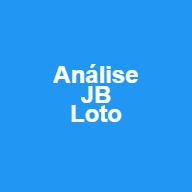
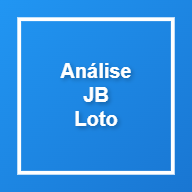
iconprof

Changed region(s): [[0.0625, 0.0625, 1.0, 1.0], [0.2812, 0.3125, 0.7188, 0.6875]]

diff --git a/lotomenu2/analisededados.html b/lotomenu2/analisededados.html
@@ -7,57 +7,56 @@
   <link rel="manifest" href="manifest.json">
   <meta name="theme-color" content="#2196f3">
   <!-- PWA Meta Tags -->
-<meta name="apple-mobile-web-app-capable" content="yes">
-<meta name="apple-mobile-web-app-status-bar-style" content="default">
-<meta name="apple-mobile-web-app-title" content="JB Loto">
-<meta name="mobile-web-app-capable" content="yes">
-<meta name="msapplication-TileColor" content="#2196f3">
-<meta name="msapplication-TileImage" content="/icon-144x144.png">
-<meta name="msapplication-config" content="/browserconfig.xml">
-<meta name="application-name" content="JB Loto">
+  <meta name="apple-mobile-web-app-capable" content="yes">
+  <meta name="apple-mobile-web-app-status-bar-style" content="default">
+  <meta name="apple-mobile-web-app-title" content="JB Loto">
+  <meta name="mobile-web-app-capable" content="yes">
+  <meta name="msapplication-TileColor" content="#2196f3">
+  <meta name="msapplication-TileImage" content="/JavaScript/LotoMenu/icon-192.png">
+  <meta name="msapplication-config" content="/browserconfig.xml">
+  <meta name="application-name" content="JB Loto">
 
-<!-- Apple Touch Icons -->
-<!-- CORRIGIDO -->
-<link rel="apple-touch-icon" href="/JavaScript/LotoMenu/icon-192.png">
-<link rel="apple-touch-icon" sizes="152x152" href="/JavaScript/LotoMenu/icon-192.png">
-<link rel="apple-touch-icon" sizes="180x180" href="/JavaScript/LotoMenu/icon-192.png">
-<link rel="apple-touch-icon" sizes="167x167" href="/JavaScript/LotoMenu/icon-192.png">
+  <!-- Apple Touch Icons - CORRIGIDOS -->
+  <link rel="apple-touch-icon" href="/JavaScript/LotoMenu/icon-192.png">
+  <link rel="apple-touch-icon" sizes="152x152" href="/JavaScript/LotoMenu/icon-192.png">
+  <link rel="apple-touch-icon" sizes="180x180" href="/JavaScript/LotoMenu/icon-192.png">
+  <link rel="apple-touch-icon" sizes="167x167" href="/JavaScript/LotoMenu/icon-192.png">
 
-<!-- E também no manifest (já corrigido acima) -->
-
-<!-- Splash Screens (opcional) -->
-<link rel="apple-touch-startup-image" href="/splash-640x1136.png" media="(device-width: 320px) and (device-height: 568px) and (-webkit-device-pixel-ratio: 2) and (orientation: portrait)">
-<link rel="apple-touch-startup-image" href="/splash-750x1334.png" media="(device-width: 375px) and (device-height: 667px) and (-webkit-device-pixel-ratio: 2) and (orientation: portrait)">
-<link rel="apple-touch-startup-image" href="/splash-1242x2208.png" media="(device-width: 414px) and (device-height: 736px) and (-webkit-device-pixel-ratio: 3) and (orientation: portrait)">
+  <!-- Splash Screens (opcional) -->
+  <link rel="apple-touch-startup-image" href="/splash-640x1136.png" media="(device-width: 320px) and (device-height: 568px) and (-webkit-device-pixel-ratio: 2) and (orientation: portrait)">
+  <link rel="apple-touch-startup-image" href="/splash-750x1334.png" media="(device-width: 375px) and (device-height: 667px) and (-webkit-device-pixel-ratio: 2) and (orientation: portrait)">
+  <link rel="apple-touch-startup-image" href="/splash-1242x2208.png" media="(device-width: 414px) and (device-height: 736px) and (-webkit-device-pixel-ratio: 3) and (orientation: portrait)">
+  
   <style>
     /* (mantive seu CSS, pequenos ajustes visuais) */
     /* Estilos específicos para PWA */
-.pwa-mode body {
-  padding-top: env(safe-area-inset-top);
-  padding-bottom: env(safe-area-inset-bottom);
-  padding-left: env(safe-area-inset-left);
-  padding-right: env(safe-area-inset-right);
-}
+    .pwa-mode body {
+      padding-top: env(safe-area-inset-top);
+      padding-bottom: env(safe-area-inset-bottom);
+      padding-left: env(safe-area-inset-left);
+      padding-right: env(safe-area-inset-right);
+    }
 
-/* Melhorar visualização em mobile quando instalado */
-@media (display-mode: standalone) {
-  body {
-    user-select: none;
-    -webkit-user-select: none;
-  }
-  
-  .container {
-    max-width: 100%;
-    margin: 0 auto;
-  }
-}
+    /* Melhorar visualização em mobile quando instalado */
+    @media (display-mode: standalone) {
+      body {
+        user-select: none;
+        -webkit-user-select: none;
+      }
+      
+      .container {
+        max-width: 100%;
+        margin: 0 auto;
+      }
+    }
 
-/* Prevenir zoom em inputs em iOS */
-@media (max-width: 768px) {
-  input, select, textarea {
-    font-size: 16px !important;
-  }
-}
+    /* Prevenir zoom em inputs em iOS */
+    @media (max-width: 768px) {
+      input, select, textarea {
+        font-size: 16px !important;
+      }
+    }
+    
     body { font-family: Arial, sans-serif; margin: 16px; background:#fbfbfd; color:#111; }
     .container { max-width:1200px; margin:0 auto; }
     h1 { margin-bottom:8px; }
@@ -86,6 +85,30 @@
     #heatmap { width:100%; overflow:auto; }
     pre { background:#f7f7f8; padding:10px; border-radius:6px; overflow:auto; }
     input[type=number].small-num { width:80px; padding:6px; }
+    
+    /* Estilos para os botões de gerar ícones */
+    .icon-generator-btn {
+      position: fixed;
+      z-index: 1000;
+      padding: 10px;
+      color: white;
+      border: none;
+      border-radius: 5px;
+      cursor: pointer;
+      font-size: 12px;
+    }
+    
+    #btnGerarIcones {
+      bottom: 10px;
+      right: 10px;
+      background: #ff5722;
+    }
+    
+    #btnGerarIconesProf {
+      bottom: 50px;
+      right: 10px;
+      background: #4caf50;
+    }
   </style>
   <script src="https://cdn.jsdelivr.net/npm/chart.js"></script>
 </head>
@@ -98,9 +121,9 @@
         <label>Loteria:
           <select id="tipoLoteria">
             <option value="lotofacil">Lotofácil</option>
-            <option value="megasena" selected>Mega-Sena</option>
-            <option value="quina">Quina</option>
-            <option value="lotomania">Lotomania</option>
+    <option value="megasena" selected>Mega-Sena</option>
+    <option value="quina">Quina</option>
+    <option value="lotomania">Lotomania</option>
           </select>
         </label>
         <label>Concurso Início: <input id="concursoInicio" type="number" min="1" class="small-num"></label>
@@ -165,6 +188,10 @@
     </div>
 
   </div>
+
+  <!-- Botões para gerar ícones (visíveis apenas durante desenvolvimento) -->
+  <button id="btnGerarIcones" class="icon-generator-btn">🎨 Gerar Ícones PNG</button>
+  <button id="btnGerarIconesProf" class="icon-generator-btn">⭐ Gerar Ícones Profissionais</button>
 
   <script>
   /*************************************************************************
@@ -992,6 +1019,114 @@
   }
 
   /*************************************************************************
+   *  Gerador de Ícones PNG
+   *************************************************************************/
+  function criarIconesPWA() {
+    // Tamanhos necessários para PWA
+    const tamanhos = [192, 512];
+    
+    tamanhos.forEach(tamanho => {
+      const canvas = document.createElement('canvas');
+      canvas.width = tamanho;
+      canvas.height = tamanho;
+      const ctx = canvas.getContext('2d');
+      
+      // Fundo - você pode personalizar a cor
+      ctx.fillStyle = '#2196f3'; // Azul do tema
+      ctx.fillRect(0, 0, tamanho, tamanho);
+      
+      // Texto
+      ctx.fillStyle = '#ffffff'; // Texto branco
+      ctx.textAlign = 'center';
+      ctx.textBaseline = 'middle';
+      
+      // Ajustar tamanho da fonte baseado no tamanho do ícone
+      const fontSize = tamanho === 192 ? 24 : 48;
+      ctx.font = `bold ${fontSize}px Arial`;
+      
+      // Texto principal
+      ctx.fillText('Análise', tamanho / 2, tamanho / 2 - (fontSize * 0.8));
+      ctx.fillText('JB', tamanho / 2, tamanho / 2);
+      ctx.fillText('Loto', tamanho / 2, tamanho / 2 + (fontSize * 0.8));
+      
+      // Converter para PNG e fazer download
+      const dataURL = canvas.toDataURL('image/png');
+      const link = document.createElement('a');
+      link.download = `icon-${tamanho}.png`;
+      link.href = dataURL;
+      document.body.appendChild(link);
+      link.click();
+      document.body.removeChild(link);
+    });
+    
+    alert('Ícones gerados! Faça o download e substitua os arquivos na pasta.');
+  }
+
+  function criarIconesProfissionais() {
+    const tamanhos = [192, 512];
+    
+    tamanhos.forEach(tamanho => {
+      const canvas = document.createElement('canvas');
+      canvas.width = tamanho;
+      canvas.height = tamanho;
+      const ctx = canvas.getContext('2d');
+      
+      // Gradiente de fundo
+      const gradient = ctx.createLinearGradient(0, 0, tamanho, tamanho);
+      gradient.addColorStop(0, '#2196f3');
+      gradient.addColorStop(1, '#1976d2');
+      ctx.fillStyle = gradient;
+      ctx.fillRect(0, 0, tamanho, tamanho);
+      
+      // Borda branca
+      ctx.strokeStyle = '#ffffff';
+      ctx.lineWidth = tamanho * 0.02;
+      ctx.strokeRect(tamanho * 0.1, tamanho * 0.1, tamanho * 0.8, tamanho * 0.8);
+      
+      // Texto com sombra
+      ctx.fillStyle = '#ffffff';
+      ctx.textAlign = 'center';
+      ctx.textBaseline = 'middle';
+      
+      const fontSize = tamanho === 192 ? 20 : 42;
+      ctx.font = `bold ${fontSize}px Arial, sans-serif`;
+      
+      // Sombra do texto
+      ctx.shadowColor = 'rgba(0, 0, 0, 0.3)';
+      ctx.shadowBlur = 4;
+      ctx.shadowOffsetX = 2;
+      ctx.shadowOffsetY = 2;
+      
+      // Texto centralizado
+      const linhas = ['Análise', 'JB', 'Loto'];
+      const espacamento = fontSize * 1.2;
+      const inicioY = (tamanho - (espacamento * (linhas.length - 1))) / 2;
+      
+      linhas.forEach((linha, index) => {
+        ctx.fillText(linha, tamanho / 2, inicioY + (espacamento * index));
+      });
+      
+      // Remover sombra para próximos desenhos
+      ctx.shadowColor = 'transparent';
+      
+      // Converter e fazer download
+      const dataURL = canvas.toDataURL('image/png');
+      const link = document.createElement('a');
+      link.download = `icon-${tamanho}.png`;
+      link.href = dataURL;
+      document.body.appendChild(link);
+      link.click();
+      document.body.removeChild(link);
+    });
+    
+    alert('Ícones profissionais gerados! Faça o download e substitua os arquivos.');
+  }
+
+  // Event listeners para os botões de gerar ícones
+  document.getElementById('btnGerarIcones').addEventListener('click', criarIconesPWA);
+  document.getElementById('btnGerarIconesProf').addEventListener('click', criarIconesProfissionais);
+
+  /*************************************************************************
    *  Inicialização
    *************************************************************************/
   (async () => {
@@ -1005,11 +1140,12 @@
   })();
 
   </script>
+  
   <script>
 // Registro do Service Worker
 if ('serviceWorker' in navigator) {
   window.addEventListener('load', function() {
-    navigator.serviceWorker.register('/service-worker.js')
+    navigator.serviceWorker.register('/JavaScript/LotoMenu/service-worker.js')
       .then(function(registration) {
         console.log('ServiceWorker registrado com sucesso: ', registration.scope);
         
@@ -1056,6 +1192,5 @@ if (isRunningStandalone()) {
   console.log('Executando como PWA');
 }
 </script>
-
 </body>
 </html>
